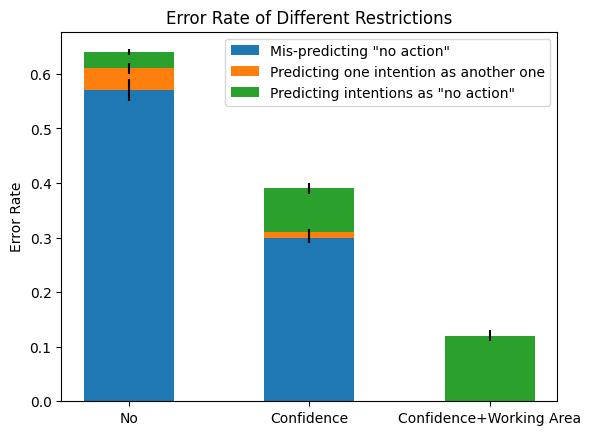
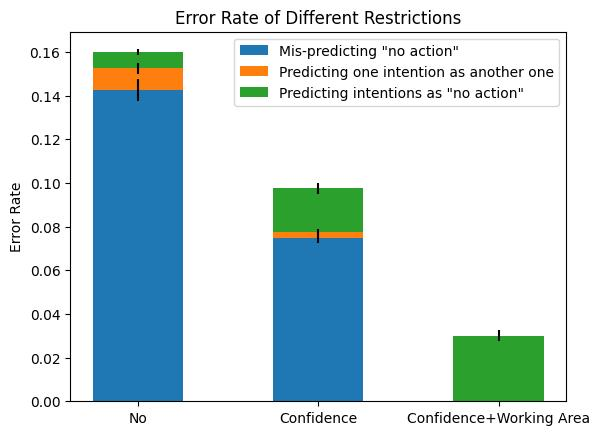
new error rate diff restrictions

diff --git a/experiments/draw_confusion_matrix.py b/experiments/draw_confusion_matrix.py
@@ -76,12 +76,12 @@ os.environ["DISPLAY"]=":0"
 #        label='Confidence+Working Area Restriction')
 
 labels = ['No', 'Confidence', 'Confidence+Working Area']
-error1_means = np.array([0.57,0.30,0])
-error2_means = np.array([0.04,0.01,0])
-error3_means = np.array([0.03,0.08,0.12])
-error1_std = np.array([0.02,0.01,0])
-error2_std = np.array([0.01,0.005,0])
-error3_std = np.array([0.005,0.01,0.01])
+error1_means = np.array([0.57,0.30,0])/4
+error2_means = np.array([0.04,0.01,0])/4
+error3_means = np.array([0.03,0.08,0.12])/4
+error1_std = np.array([0.02,0.01,0])/4
+error2_std = np.array([0.01,0.005,0])/4
+error3_std = np.array([0.005,0.01,0.01])/4
 width = 0.50      # the width of the bars: can also be len(x) sequence
 
 fig, ax = plt.subplots()
